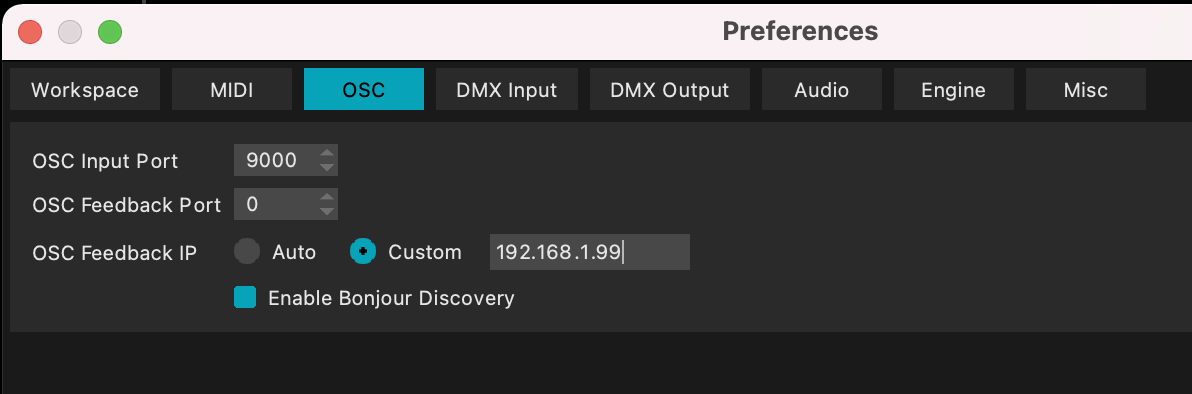
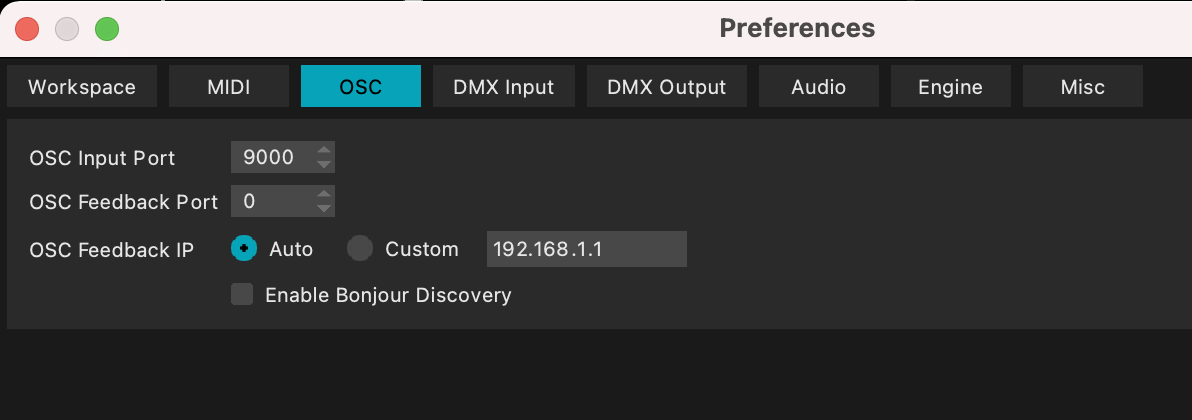
update

Changed region(s): [[0.0, 0.0, 1.0, 0.3046], [0.0, 0.335, 0.5898, 0.7919], [0.0, 0.335, 0.1552, 0.4264]]

diff --git a/README.md b/README.md
@@ -104,13 +104,19 @@ Il suffit ensuite de cliquer sur la flèche de lecture ▶ pour lancer la sé
 
 Pour contrôler différents paramètres de MadMapper avec OSC depuis son téléphone par exemple, il faut au préalable installer une application d'envoi d'OSC tel que ZIG SIM, et connecter le téléphone et l'ordinateur au même réseau wifi. Il est possible de récuperer directement depuis ZIG SIM, même si ce n'est pas idéal.
 
-Dans le menu `Preferences` de MadMapper, ajuster le numéro de port et l'adresse IP pour être la même que celle du réseau Wifi et du téléphone sur ZIG SIM.
+Dans le menu `Preferences` de MadMapper, ajuster le numéro de port pour être la même que celle sur ZIG SIM. 
+
+Laisser l'OSC Feedback IP en Auto, et décocher le mode Enable Bonjour Discovery.
 
 ![Screenshot des préférences](./images/screen12.png)
 
 Dans ZIG SIM, le format de message doit donc être en OSC, et c'est mieux si le nom du téléphone (DEVICE UUID) est un truc simple en un seul mot.
 
-![Screenshot de ZIG SIM](./images/screen13.png)
+![Screenshot de ZIG SIM](./images/screen13.jpg)
+
+L'adresse IP doit être la même que celle de l'ordinateur, qu'on peux récupérer dans les paramètres réseaux :
+
+![Screenshot de ZIG SIM](./images/screen132.png)
 
 Ensuite, dans MadMapper, pour contrôler par exemple la valeur de la rotation de notre texture vidéo avec le téléphone, on clic-droit sur le slider rotation > `Add Control` > `OSC`.
 
@@ -123,7 +129,9 @@ En cliquant sur `Learn` en déplaçant le téléphone pour obtenir des valeurs, 
 
 ![Screenshot de ZIG SIM](./images/screen15.png)
 
-à suivre...
+La Source range (= l'étendue de valeurs) par défaut est entre 0 et 1, alors que ZIG SIM envoit des valeurs sur des plages de données différentes.
+
+La Target range est l'étendue de valeurs du paramètre controlé (ici entre 0 et 360° pour la rotation).
 
 ### En passant par Processing
 
